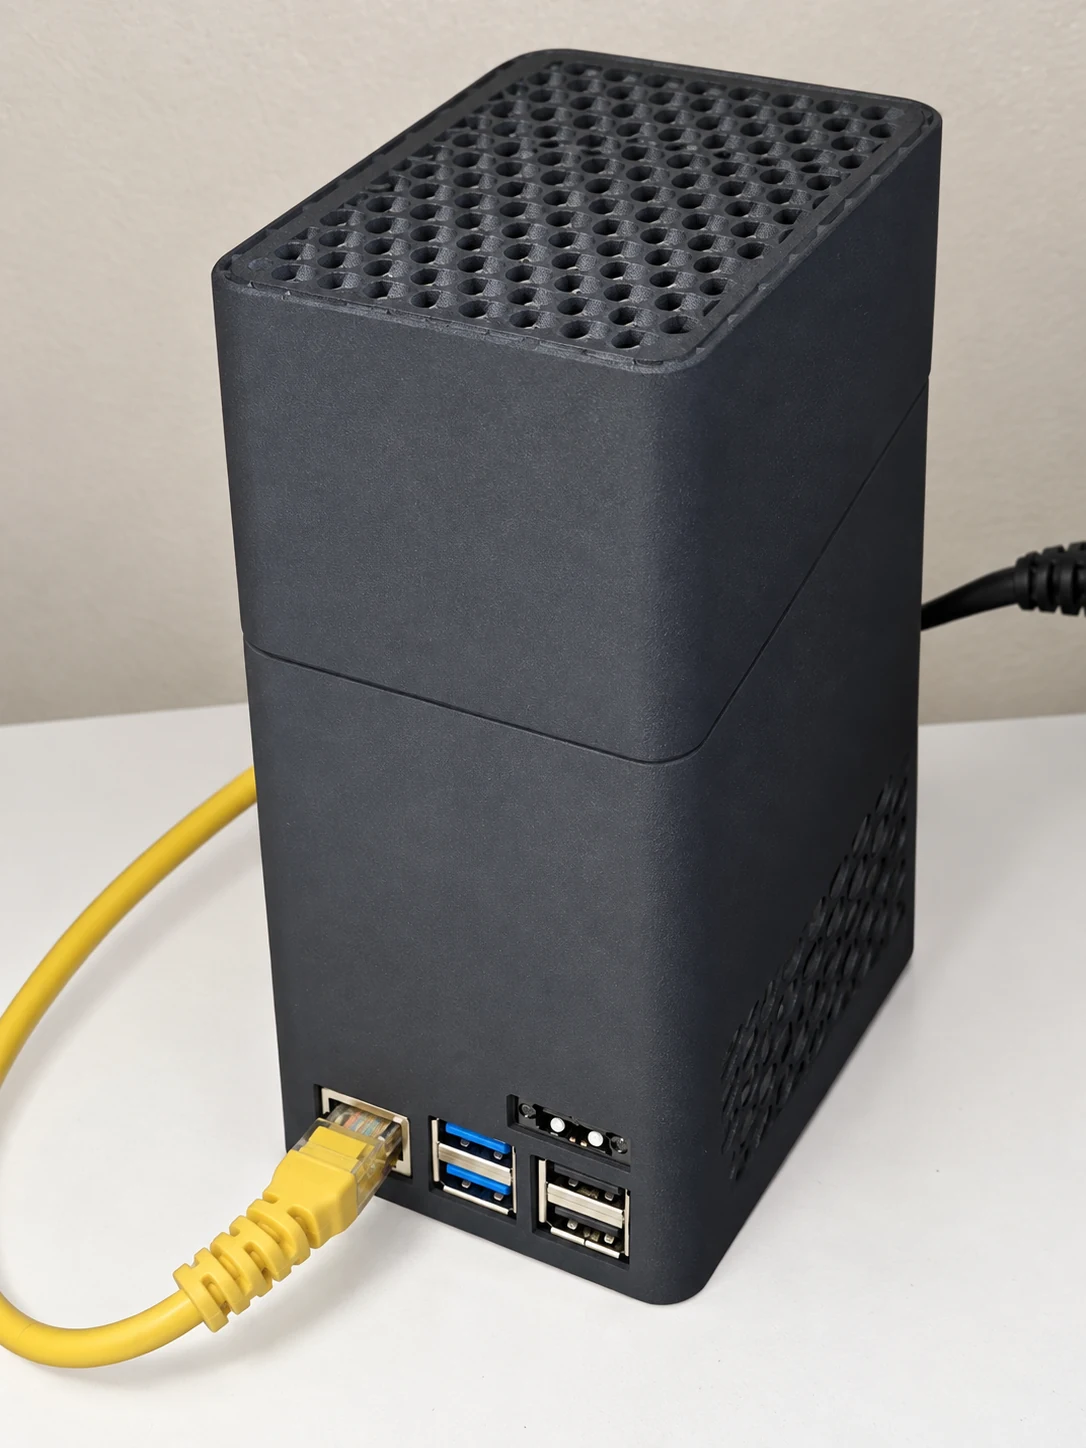
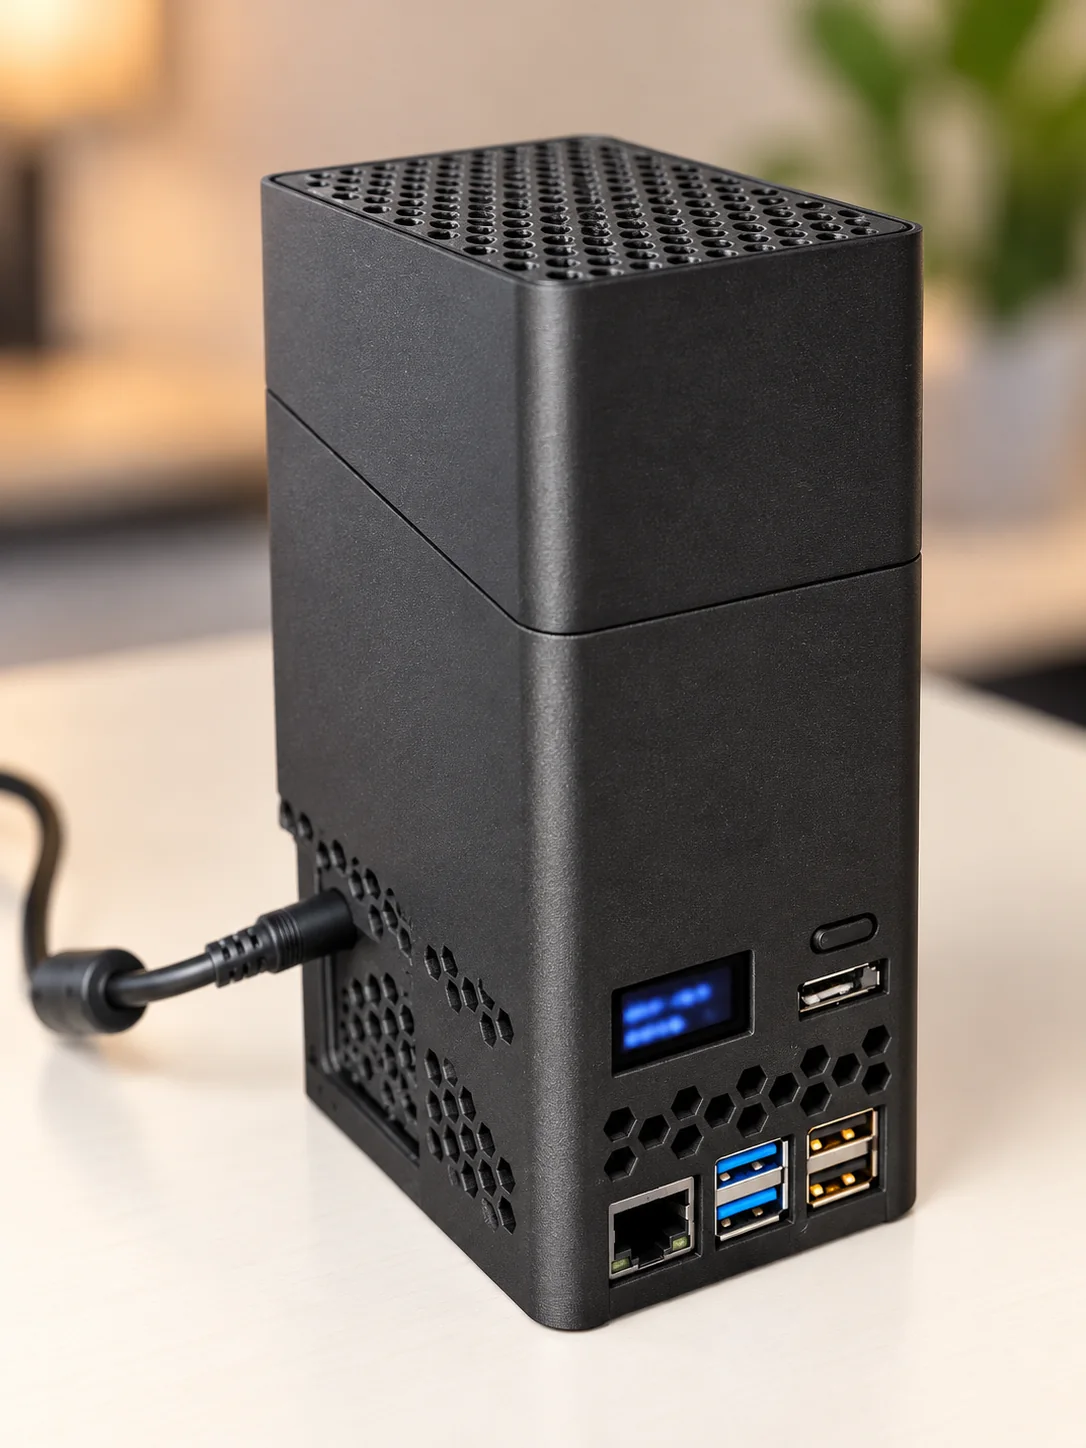
Update completed NAS photograph

diff --git a/pages/rpi-radxa-penta.html b/pages/rpi-radxa-penta.html
@@ -8,8 +8,8 @@
     <a class="text-link" href="#cooling">Explore the cooling options ↓</a>
   </div>
   <figure class="build-photo">
-    <a class="zoom" href="../../assets/hardware/rpi-radxa-penta/assembled.webp" aria-label="Enlarge the assembled NAS photograph"><img src="../../assets/hardware/rpi-radxa-penta/assembled.webp" width="1086" height="1448" alt="The assembled black printed NAS enclosure with its top grille and Ethernet connection" fetchpriority="high" decoding="async"></a>
-    <figcaption>My assembled enclosure. I used a retouched version of my photograph with the monitor content excluded.</figcaption>
+    <a class="zoom" href="../../assets/hardware/rpi-radxa-penta/assembled.webp" aria-label="Enlarge the assembled NAS photograph"><img src="../../assets/hardware/rpi-radxa-penta/assembled.webp" width="1086" height="1448" alt="The completed black NAS tower with a ventilated top, OLED display, power button, Ethernet and USB ports" fetchpriority="high" decoding="async"></a>
+    <figcaption>My completed enclosure in November 2026, with the top cover fitted. The photograph has an AI-assisted background retouch, and the OLED's private network address is obscured.</figcaption>
   </figure>
 </section>
 <nav class="build-nav" aria-label="On this page"><a href="#components">Components</a><a href="#assembly">Assembly</a><a href="#software">NAS software</a><a href="#cooling">Cooling options</a><a href="#custom-pwm">Two-wire wiring</a><a href="#factory-pwm">Four-wire wiring</a><a href="#oled">OLED screen</a><a href="#power-control">Power switch</a><a href="#power-button-shutdown">Optional shutdown button</a><a href="#checks">Before powering on</a></nav>
